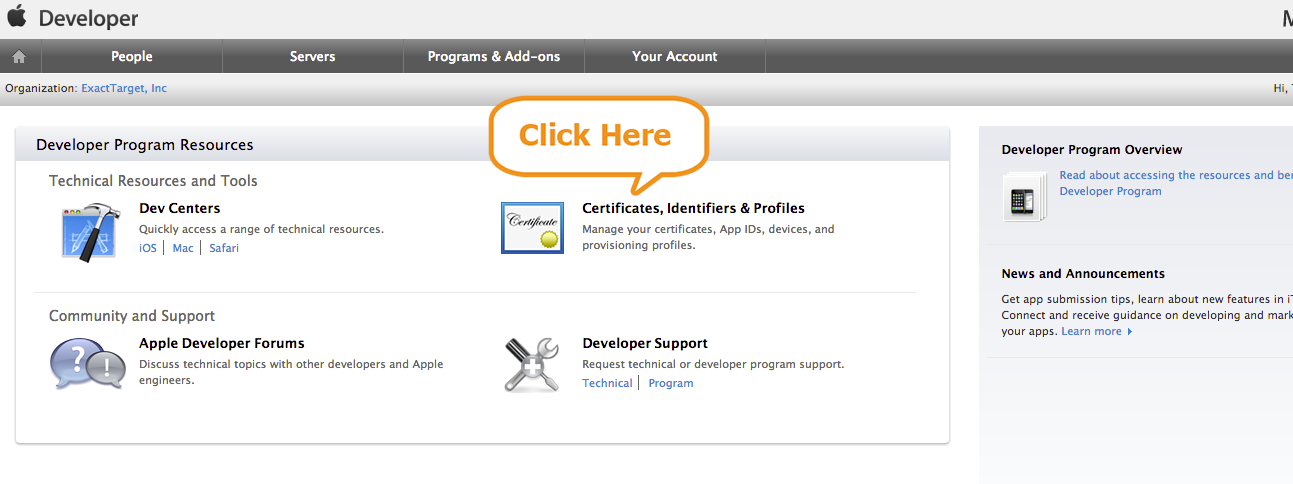
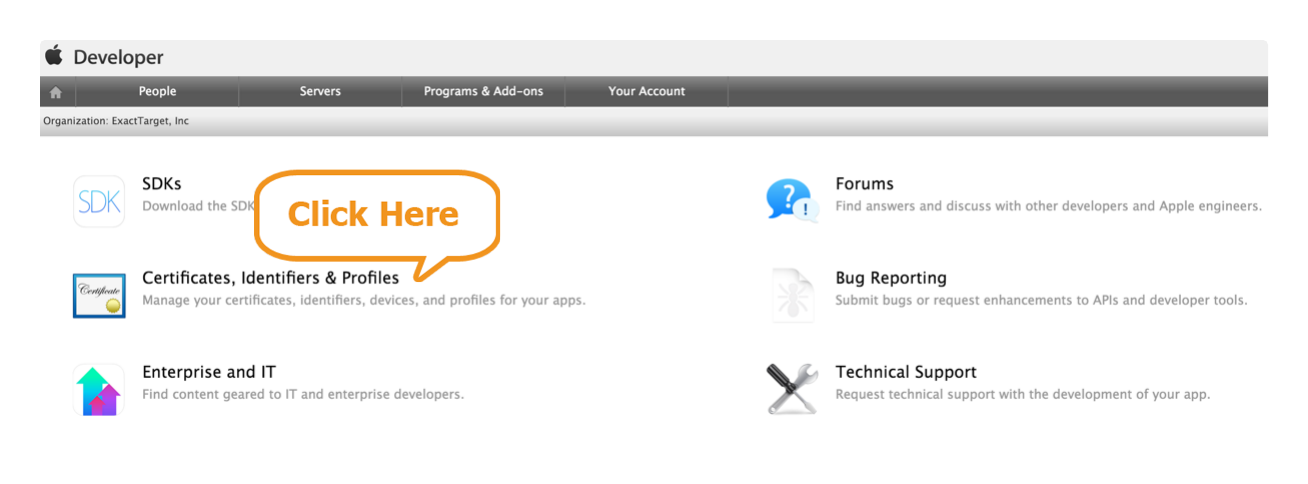
iOS updated graphics and text for provisioning and mobile center

diff --git a/_posts/2015-05-13-apple.md b/_posts/2015-05-13-apple.md
@@ -8,12 +8,12 @@ order: 1
 ---
 You must provision your mobile app in the iOS Provisioning Panel. The certificates issued in the process remain valid for one year. Ensure that you repeat this procedure once per year before your certificates expire to maintain app functionality. Follow the instructions below to integrate the Journey Builder for Apps SDK with your iOS mobile app:
 
-1. Log in at the iOS Dev Center.
+1. Log in at the Member Center.
 1. Click **Certificates, Identifiers & Profiles**.
 <br/>
  <img class="img-responsive" src="{{ site.baseurl }}/assets/ioscertificates_step1.png" /><br/>
 <br/>
-1. Click **Identifiers**.
+1. Click **App IDs**.
 <br/>
  <img class="img-responsive" src="{{ site.baseurl }}/assets/ioscertificates_step2.png" /><br/>
 <br/>
@@ -31,7 +31,7 @@ You must provision your mobile app in the iOS Provisioning Panel. The certificat
 <br/>
  <img class="img-responsive" src="{{ site.baseurl }}/assets/ioscertificates_step5.png" /><br/>
  <br/>
-1. Click **Submit** to confirm your app ID creation.
+1. Click **Register** to confirm your app ID creation.
 <br/>
  <img class="img-responsive" src="{{ site.baseurl }}/assets/ioscertificates_step6.png" /><br/>
  <br/>
@@ -74,7 +74,7 @@ You must provision your mobile app in the iOS Provisioning Panel. The certificat
 <br/>
 1. Choose a location at which to save the certificate.
 1. Click **Save**.
-1. Return to the iOS Dev Center website.
+1. Return to the Member Center website.
 1. Click **Continue**.
 <br/>
  <img class="img-responsive" src="{{ site.baseurl }}/assets/ioscertificates_step11.png" /><br/>
@@ -84,7 +84,7 @@ You must provision your mobile app in the iOS Provisioning Panel. The certificat
 <br/>
  <img class="img-responsive" src="{{ site.baseurl }}/assets/ioscertificates_step12.png" /><br/>
 <br/>
-1. Click **Generate**.
+1. Click **Continue**.
 1. Click **Download**.
 <br/>
  <img class="img-responsive" src="{{ site.baseurl }}/assets/ioscertificates_step13.png" /><br/>

diff --git a/_posts/2015-05-13-create-apps-overview.md b/_posts/2015-05-13-create-apps-overview.md
@@ -10,5 +10,5 @@ Follow these steps to connect your iOS app to your Marketing Cloud account:
 
 1. Create a MobilePush app in the App Center. See [Add App to App Center]({{ site.baseurl }}/create-apps/create-apps-app-center.html)
 1. Integrate the App Center app to your Marketing Cloud account.  See [Integrate App Center App]({{ site.baseurl }}/create-apps/create-apps-marketing-cloud.html)
-1. Upload the APNS certificate provided when you created your app in the <a href="https://developer.apple.com/devcenter/ios/" target="_blank">iOS Dev Center</a>.  See [Add Provisioning to App Center App]({{ site.baseurl }}/create-apps/create-apps-provisioning.html)
+1. Upload the APNS certificate provided when you created your app in the <a href="https://developer.apple.com/devcenter/ios/" target="_blank">Member Center</a>.  See [Add Provisioning to App Center App]({{ site.baseurl }}/create-apps/create-apps-provisioning.html)
 

diff --git a/_posts/2015-05-15-create-apps-provisioning.md b/_posts/2015-05-15-create-apps-provisioning.md
@@ -10,7 +10,7 @@ Add the provisioning information created in the [Apple]({{ site.baseurl }}/provi
 
 After connecting your App Center App to your Marketing Cloud account, add the provisioning information using the following form:
 
-* For iOS apps, click **Choose File** and upload the APNS certificate provided when you created your app in the <a href="https://developer.apple.com/devcenter/ios/" target="_blank">iOS Dev Center</a>.
+* For iOS apps, click **Choose File** and upload the APNS certificate provided when you created your app in the <a href="https://developer.apple.com/membercenter/" target="_blank">Member Center</a>.
 
 * Type in the APNS certificate password in the **Password** field.
 

diff --git a/_posts/2015-05-15-create-apps-marketing-cloud.md b/_posts/2015-05-15-create-apps-marketing-cloud.md
@@ -25,4 +25,4 @@ Follow these steps to connect this MobilePush app to the correct Marketing Cloud
 1. Click **Integrate**.<br/>
     
     > The popup window will disappear.
-1. When this popup disappears, add the provisioning information (.p12 files) you created in the Apple Dev Center.  See [Add Provisioning to App Center App]({{ site.baseurl }}/create-apps/create-apps-provisioning.html).
+1. When this popup disappears, add the provisioning information (.p12 files) you created in the Apple Member Center.  See [Add Provisioning to App Center App]({{ site.baseurl }}/create-apps/create-apps-provisioning.html).
